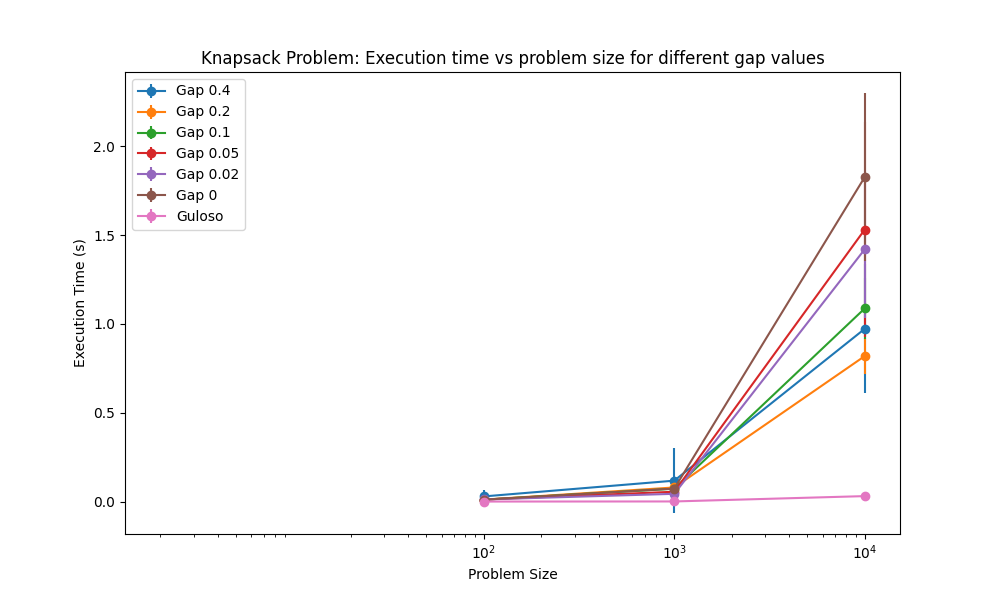
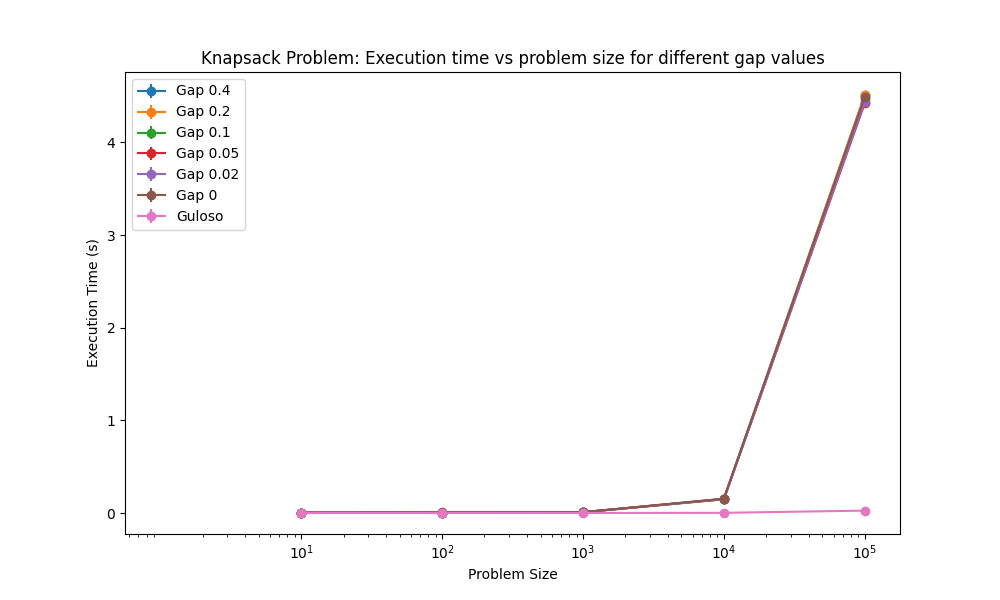
Add: Execution until 100000

diff --git a/main.py b/main.py
@@ -130,7 +130,7 @@ def plot_gap_objetivo(sizes, diferencas):
 def main():
     #Problem sizes to test: number of items
     #sizes = [10, 1000, 10000, 100000, 1000000, 10000000]
-    sizes = [100, 1000, 10000]
+    sizes = [10, 100, 1000, 10000, 100000]
     max_weight = 50
     max_value = 100
     gap_thresholds = [0.4, 0.2, 0.1, 0.05, 0.02, 0]
